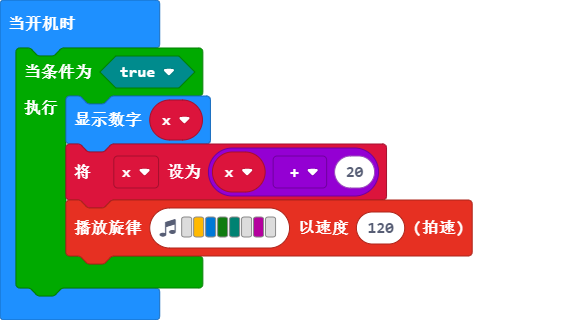
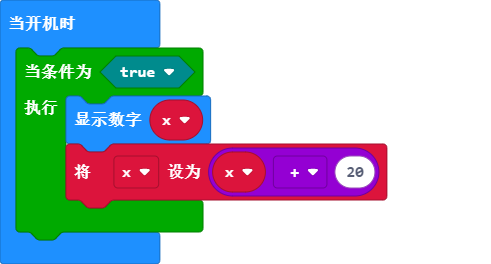
更新 pxt.json, main.blocks, main.ts

diff --git a/main.ts b/main.ts
@@ -2,5 +2,4 @@ let x = 0
 while (true) {
     basic.showNumber(x)
     x = x + 20
-    music.playMelody("- A E G F - C - ", 120)
 }
